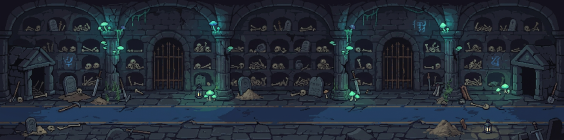
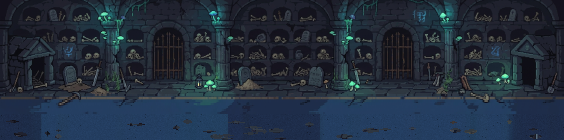
墓穴 bg_06 完成:前景柵欄 fg_06 + 光暈 fx_06.json
Claude-Session: https://claude.ai/code/session_01VgWDma9wRVh94nUCbzKnsT

diff --git a/assets/battle/readme.md b/assets/battle/readme.md
@@ -7,7 +7,9 @@
 
 - `sky_mask_03.png`:沙漠的天空範圍(不透明處=天空)。飄動的雲只畫在這個範圍內,所以會躲在金字塔後面;雲不要低於地平線。
 - `clouds.json`:雲的形狀(4 朵,取自沙漠原圖)與各主題色盤(day 白雲 / dusk 粉雲)。森林用 day 色盤,沙漠用 dusk 色盤。
-- 暫存(只有背景,尚未切前景/調站位,之後逐張修):`bg_06`(墓穴,564×140)、`bg_07`(王座廳,282×140)、`bg_08`(魔王城,564×140)、`bg_09`(城堡大廳,564×140)。
+- 暫存(只有背景,尚未切前景/調站位,之後逐張修):`bg_07`(王座廳,282×140)、`bg_08`(魔王城,564×140)、`bg_09`(城堡大廳,564×140)。
 - `bg_04` + `fg_04`(熔岩,564×140)已完成:上方裁掉 12 格、道路拉長,前景含底部黑石、岩尖、植物。特效參數(動態煙、火泡、火星)在 `fx_04.json`;原圖的煙保留,特效疊在上面。
 - `bg_05` + `fg_05`(冰原,564×140)已完成:上方裁掉 10 格、道路拉長,原圖的雲已削掉,改用 `clouds.json` 的雲在天空飄(`sky_mask_05.png` 讓雲躲在山後面),前景為底部雪岩與樹樁。飄雪參數在 `fx_05.json`。
 - `fx_02.json`:洞窟(bg_02)的發光物光暈參數(背景 5 處、前景 2 處,前景光暈疊在 fg_02 上面)。
+
+- 墓穴(bg_06):已完成,道路拉高、地毯鋪滿下方;fg_06=連續鐵柵欄(矛尖微起伏);fx_06.json=蘑菇/符文/燈籠光暈(無霧)。
